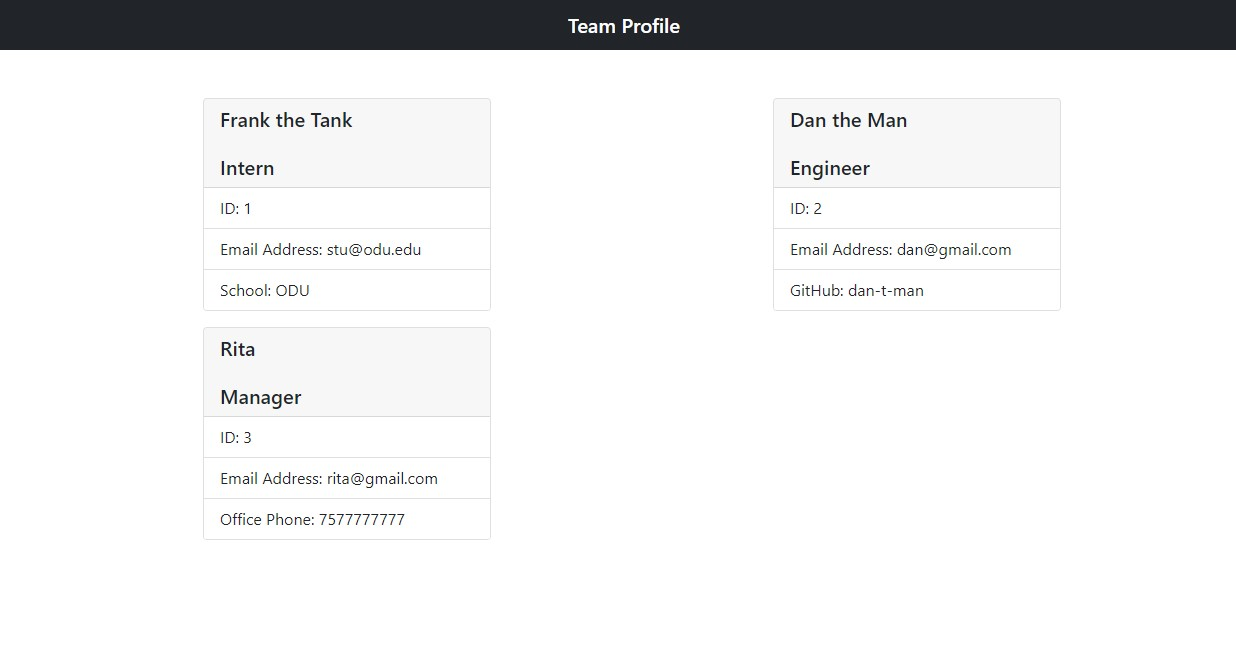
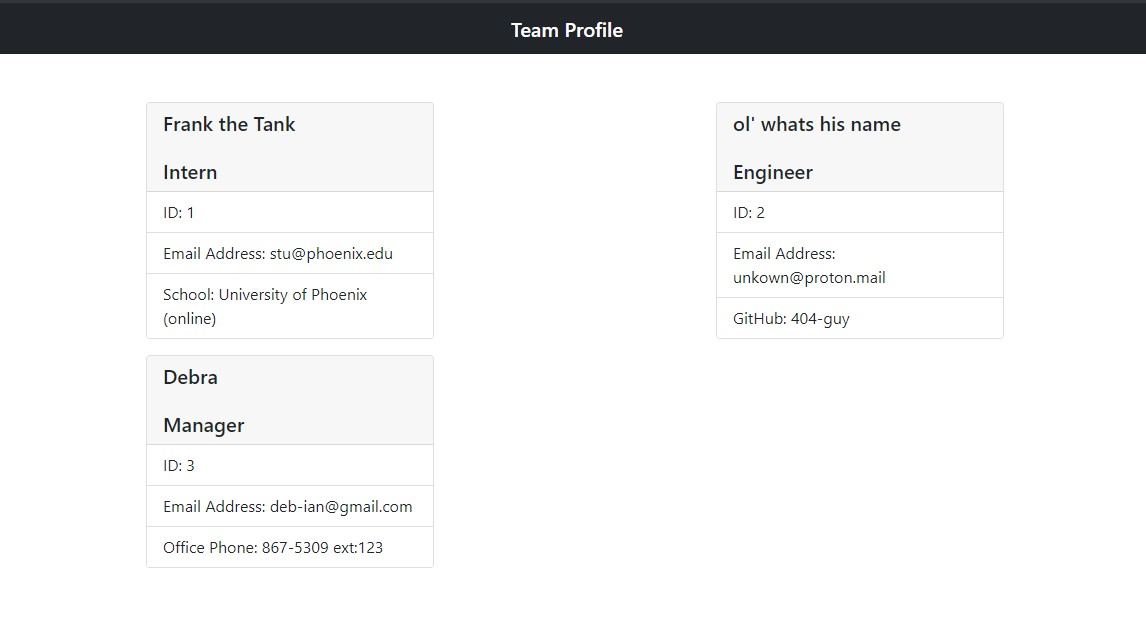
edited cli prompts for user & added appCLI.jpg to ./assets/img/

diff --git a/src/output.html b/src/output.html
@@ -17,26 +17,26 @@
           <h5 class="card-header">Frank the Tank<br /><br />Intern</h5>
           <ul class="list-group list-group-flush">
               <li class="list-group-item">ID: 1</li>
-              <li class="list-group-item">Email Address: stu@odu.edu</li>
-              <li class="list-group-item">School: ODU</li>
+              <li class="list-group-item">Email Address: stu@phoenix.edu</li>
+              <li class="list-group-item">School: University of Phoenix (online)</li>
           </ul>
           </div>
         </div><div class="col-6">
           <div class="card mx-auto mb-3" style="width: 18rem">
-          <h5 class="card-header">Dan the Man<br /><br />Engineer</h5>
+          <h5 class="card-header">ol' whats his name<br /><br />Engineer</h5>
           <ul class="list-group list-group-flush">
               <li class="list-group-item">ID: 2</li>
-              <li class="list-group-item">Email Address: dan@gmail.com</li>
-              <li class="list-group-item">GitHub: dan-t-man</li>
+              <li class="list-group-item">Email Address: unkown@proton.mail</li>
+              <li class="list-group-item">GitHub: 404-guy</li>
           </ul>
           </div>
         </div><div class="col-6">
           <div class="card mx-auto mb-3" style="width: 18rem">
-          <h5 class="card-header">Rita<br /><br />Manager</h5>
+          <h5 class="card-header">Debra<br /><br />Manager</h5>
           <ul class="list-group list-group-flush">
               <li class="list-group-item">ID: 3</li>
-              <li class="list-group-item">Email Address: rita@gmail.com</li>
-              <li class="list-group-item">Office Phone: 7577777777</li>
+              <li class="list-group-item">Email Address: deb-ian@gmail.com</li>
+              <li class="list-group-item">Office Phone: 867-5309 ext:123</li>
           </ul>
           </div>
         </div></div>

diff --git a/index.js b/index.js
@@ -8,7 +8,7 @@ const Intern = require('./lib/Intern');
 const { resolve } = require('path/posix');
 
 function init (){
-    console.log('app initiated...');
+    console.log('application initiated...');
     initHtml();
     addEmployee();
 };
@@ -16,6 +16,7 @@ const employees = [];
 
 //* Gets employee information from user
 function addEmployee() {
+    console.log('Adding New Employee...');
     inquirer.prompt([{
         message: "Enter new employee's name...",
         name: 'name'
@@ -85,7 +86,7 @@ function addEmployee() {
 
 //* Initial html text for page src/output.html
 function initHtml() {
-    console.log('html initiated...');
+    // console.log('html initiated...');
     const html = `<!DOCTYPE html>
     <html lang="en">
     <head>
@@ -110,7 +111,7 @@ function initHtml() {
 
 //* Add new employee information to src/output.html
 function addHtml(member) {
-    console.log("we in here");
+    // console.log("we in here");
     return new Promise((resolve, reject)=>{
       const name = member.getName();
       const role = member.getRole();
@@ -155,7 +156,7 @@ function addHtml(member) {
           </div>
         </div>`;
       }
-      console.log(`adding ${name}`);
+      console.log(`${name} has been added to page...`);
       fs.appendFile('./src/output.html', data, (err) => {
         if (err) {
             return reject(err);
@@ -170,7 +171,7 @@ function endHtml(){
         </div>
     </body>
     </html>`;
-    console.log('adding html closing text');
+    console.log('html page located at ./src/output.html');
     fs.appendFile('./src/output.html', data, (err) => {
       if (err){
           return reject(err);
